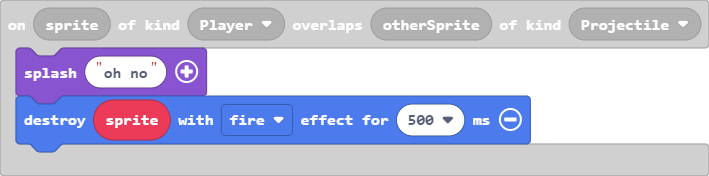
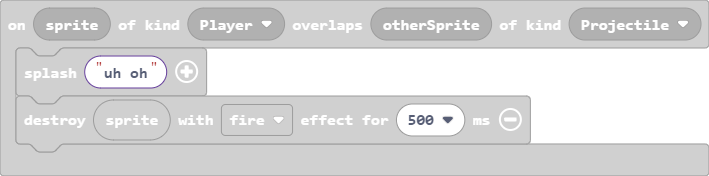
Update main.blocks, main.ts

Changed region(s): [[0.0, 0.2557, 0.7757, 0.8807]]

diff --git a/main.ts b/main.ts
@@ -1,5 +1,5 @@
 sprites.onOverlap(SpriteKind.Player, SpriteKind.Projectile, function (sprite, otherSprite) {
-    game.splash("oh no")
+    game.splash("uh oh")
     sprites.destroy(sprite, effects.fire, 500)
 })
 let projectile: Sprite = null
